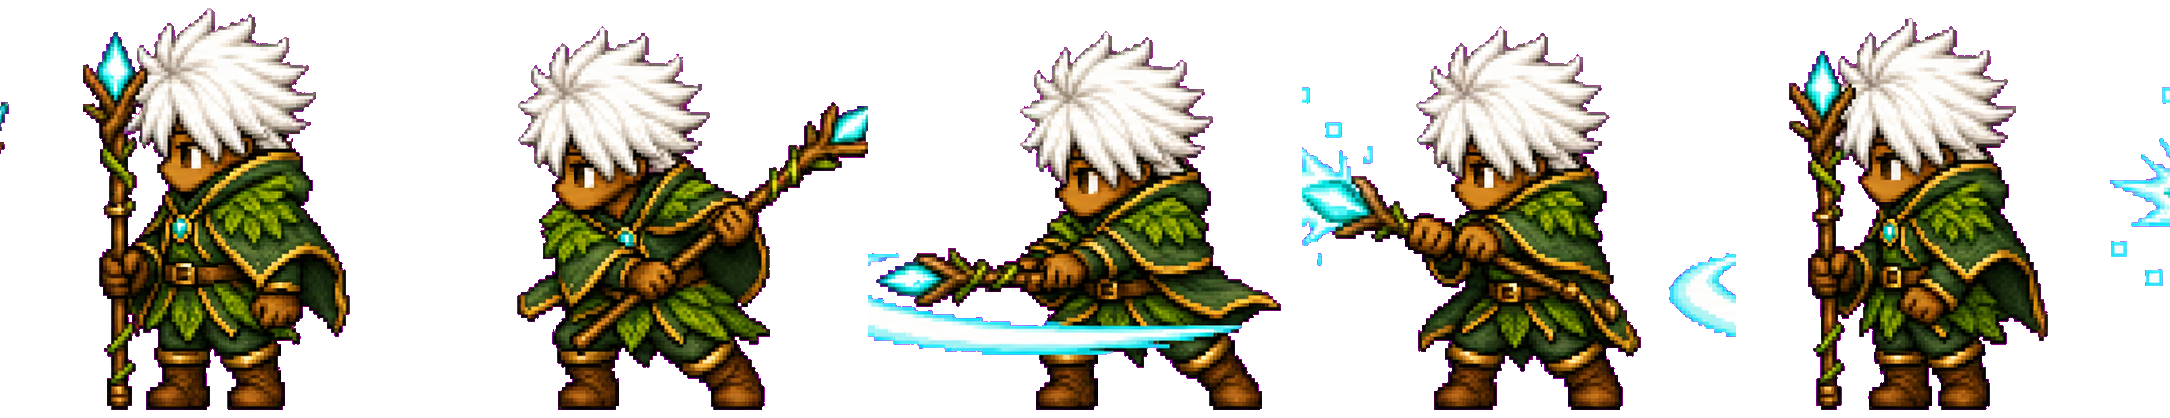
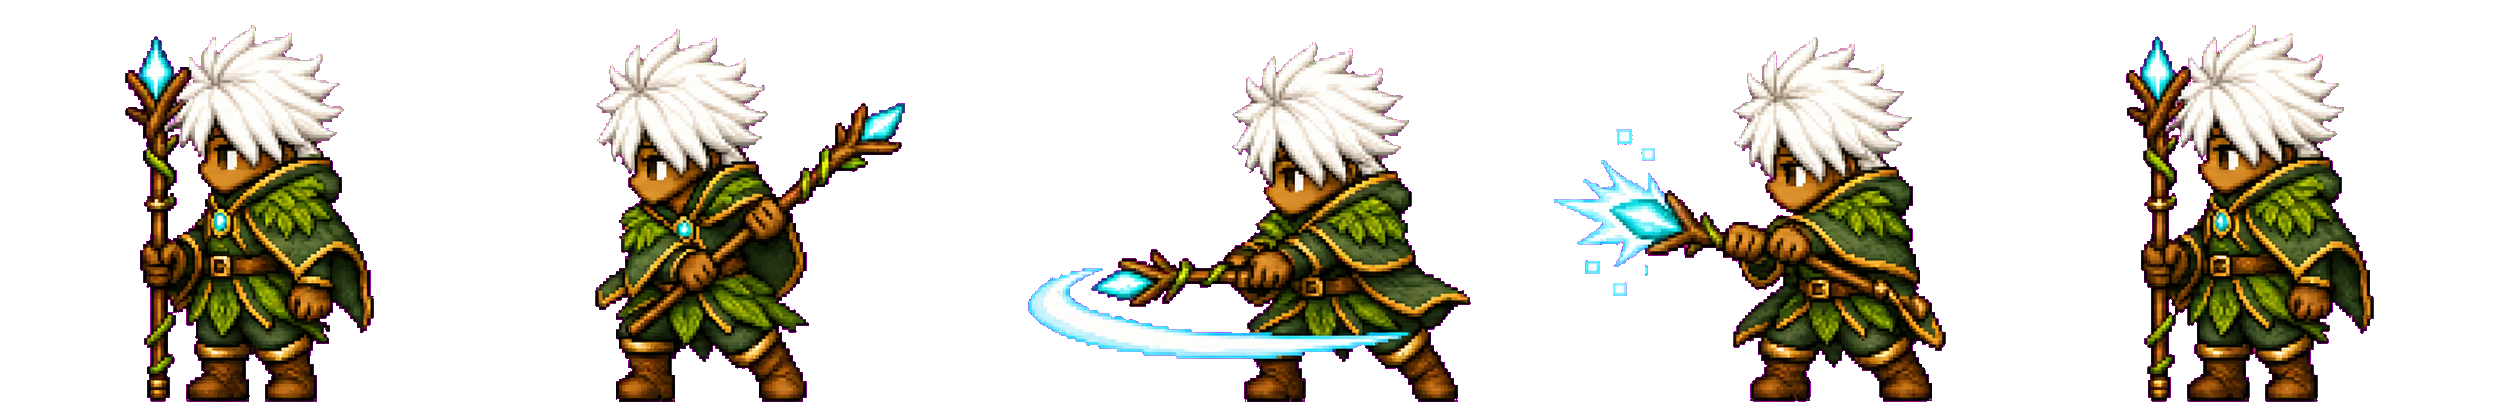
rp8

diff --git a/arborynth.html b/arborynth.html
@@ -6,30 +6,36 @@ body:before{content:"";position:fixed;inset:0;background:radial-gradient(circle 
 .device{position:fixed;inset:0;display:flex;align-items:center;justify-content:center;overflow:hidden;padding-top:4vh}.chassis{position:relative;width:min(100vw,calc(96vh * 768 / 1376));aspect-ratio:768/1376;overflow:hidden}
 .chassis:after{content:"";position:absolute;inset:0;z-index:3;pointer-events:none;background:url("assets/arboryth assets/arborynth controller.png") center/100% 100% no-repeat}
 .screen{position:absolute;left:7.5521%;top:6.1047%;width:85.026%;height:50.5814%;z-index:1;overflow:hidden;background:#07110d}
-#world{position:absolute;width:1600px;height:900px;left:0;top:0;will-change:transform}#world img{width:100%;height:100%;object-fit:cover;image-rendering:pixelated;pointer-events:none}
-#world:after{content:"";position:absolute;inset:0;background:radial-gradient(circle at 20% 30%,#a5f68f 0 1px,transparent 2px),radial-gradient(circle at 75% 60%,#7feac7 0 1px,transparent 2px);background-size:90px 75px,130px 105px;animation:drift 10s linear infinite;pointer-events:none}
+#world{position:absolute;width:1024px;height:1024px;left:0;top:0;will-change:transform}#world>.worldArt{position:absolute;inset:0;width:100%;height:100%;image-rendering:pixelated;pointer-events:none}
+#world:after{content:"";position:absolute;inset:0;z-index:1;background:radial-gradient(circle at 20% 30%,#a5f68f 0 1px,transparent 2px),radial-gradient(circle at 75% 60%,#7feac7 0 1px,transparent 2px);background-size:90px 75px,130px 105px;animation:drift 10s linear infinite;pointer-events:none}
+#groundStaff{position:absolute;z-index:2;left:606px;top:617px;width:28px;height:46px;object-fit:contain;image-rendering:pixelated;filter:drop-shadow(0 0 5px #79e7dc);pointer-events:none;animation:itemGlow 1.4s ease-in-out infinite}
 #player{position:absolute;z-index:4;left:50%;top:56%;width:38px;height:59px;object-fit:contain;transform:translate(-50%,-70%);image-rendering:pixelated;filter:drop-shadow(0 3px 2px #000a);pointer-events:none}
 #staffAttack{position:absolute;z-index:4;left:50%;top:56%;width:62px;height:59px;transform:translate(-50%,-70%);background:url("assets/arboryth assets/animation_arborynth_staff_attack.png") 0 center/500% 100% no-repeat;image-rendering:pixelated;filter:drop-shadow(0 3px 2px #000a);pointer-events:none;display:none}
 .hud{position:absolute;z-index:5;left:10.5%;right:10.5%;top:12.3%;display:flex;gap:7px;pointer-events:none}.power{flex:1;padding:7px 9px;background:#07110de8;border:1px solid #d1bb67;border-radius:4px;color:#eee3b0;font-size:9px;letter-spacing:.08em;box-shadow:0 3px 12px #0009}.power span{float:right;color:#c9e2d2}.meter{clear:both;height:5px;margin-top:5px;background:#101913}.meter i{display:block;height:100%;width:0}#vibeBar{background:#78db8f}#staffBar{background:#79deda}
 #location{position:absolute;z-index:5;left:50%;bottom:9px;transform:translateX(-50%);padding:5px 9px;background:#07110dc2;border:1px solid #8a7e4d;color:#e9d98e;font-size:8px;letter-spacing:.14em;white-space:nowrap;pointer-events:none}
+#prompt{position:absolute;z-index:6;left:50%;bottom:42px;transform:translateX(-50%);padding:6px 10px;background:#07110deb;border:1px solid #d7c066;color:#f1e2a0;font-size:8px;letter-spacing:.12em;white-space:nowrap;opacity:0;transition:opacity .15s;pointer-events:none}#prompt.show{opacity:1}
 #pulse{position:absolute;z-index:3;left:50%;top:54%;width:10px;height:10px;border:2px solid #77ead0;border-radius:50%;opacity:0;transform:translate(-50%,-50%)}#pulse.fire{animation:pulse .7s ease-out}
 .hot{position:absolute;z-index:4;border:0;outline:0;background:transparent;padding:0;touch-action:none;-webkit-tap-highlight-color:rgba(0,0,0,0);-webkit-appearance:none;appearance:none;cursor:pointer}.hot:focus,.hot:focus-visible{outline:0;box-shadow:none}.hot:active{background:#e8c8781f}
 .up{left:14.71%;top:58.43%;width:11.72%;height:6.69%}.down{left:14.71%;top:71.22%;width:11.98%;height:6.69%}.left{left:3.39%;top:64.24%;width:11.98%;height:7.85%}.right{left:26.17%;top:64.24%;width:11.98%;height:7.85%}
 .x{left:69.92%;top:60.25%;width:15.36%;height:8.65%;border-radius:50%}.y{left:53.52%;top:68.02%;width:13.67%;height:6.47%;border-radius:50%}.a{left:83.85%;top:68.02%;width:13.54%;height:7.12%;border-radius:50%}.b{left:68.36%;top:75.22%;width:13.54%;height:6.47%;border-radius:50%}.menu{left:38.41%;top:86.48%;width:22.14%;height:11.26%}.start{left:66.15%;top:93.39%;width:22.79%;height:4%}.select{left:11.07%;top:93.39%;width:22.79%;height:4%}
-#status{position:fixed;left:50%;bottom:8px;transform:translateX(-50%);color:#776c83;font-size:9px;letter-spacing:.18em;text-transform:uppercase}@keyframes drift{to{background-position:80px -75px,-90px -105px}}@keyframes pulse{0%{opacity:.9;width:10px;height:10px}100%{opacity:0;width:220px;height:220px}}
+#status{position:fixed;left:50%;bottom:8px;transform:translateX(-50%);color:#776c83;font-size:9px;letter-spacing:.18em;text-transform:uppercase}@keyframes drift{to{background-position:80px -75px,-90px -105px}}@keyframes pulse{0%{opacity:.9;width:10px;height:10px}100%{opacity:0;width:220px;height:220px}}@keyframes itemGlow{50%{filter:drop-shadow(0 0 10px #9af7e9);transform:translateY(-2px)}}
 </style></head><body>
 <a class="back" href="games.html">← GAMES</a><div class="device"><div class="chassis">
-<div class="screen"><div id="world"><img src="assets/arboryth assets/arborynth-godvine-world.png" alt=""></div><div id="pulse"></div><img id="player" src="assets/arboryth assets/character_arborynth.png" alt="Arborynth traveler"><div id="staffAttack" aria-hidden="true"></div><div id="location">FOREST OF THE GODVINE</div></div>
+<div class="screen"><div id="world"><canvas class="worldArt" id="tileMap" width="1024" height="1024"></canvas><img id="groundStaff" src="assets/arboryth assets/item_aura_staff_ground.png" alt=""></div><div id="pulse"></div><img id="player" src="assets/arboryth assets/character_arborynth.png" alt="Arborynth traveler"><div id="staffAttack" aria-hidden="true"></div><div id="prompt"></div><div id="location">FOREST OF THE GODVINE · 32 × 32</div></div>
 <div class="hud"><div class="power">VIBE <span id="vibeLv">LV 1</span><div class="meter"><i id="vibeBar"></i></div></div><div class="power">AURA STAFF <span id="staffLv">LV 1</span><div class="meter"><i id="staffBar"></i></div></div></div>
 <button class="hot up" data-key="ArrowUp" aria-label="Move up"></button><button class="hot down" data-key="ArrowDown" aria-label="Move down"></button><button class="hot left" data-key="ArrowLeft" aria-label="Move left"></button><button class="hot right" data-key="ArrowRight" aria-label="Move right"></button>
-<button class="hot x" data-action="staff" aria-label="Aura Staff"></button><button class="hot y" data-action="vibe" aria-label="Vibe"></button><button class="hot a" data-action="staff" aria-label="Aura Staff"></button><button class="hot b" data-action="attack" aria-label="Basic staff attack"></button><button class="hot menu" aria-label="Menu"></button><button class="hot start" data-action="staff" aria-label="Staff profile"></button><button class="hot select" data-action="vibe" aria-label="Vibe profile"></button>
+<button class="hot x" data-action="staff" aria-label="Aura Staff"></button><button class="hot y" data-action="vibe" aria-label="Vibe"></button><button class="hot a" data-action="interact" aria-label="Interact"></button><button class="hot b" data-action="attack" aria-label="Basic staff attack"></button><button class="hot menu" aria-label="Menu"></button><button class="hot start" data-action="staff" aria-label="Staff profile"></button><button class="hot select" data-action="vibe" aria-label="Vibe profile"></button>
 </div></div><div id="status">Prototype 08 · Arborynth · Forest of the Godvine</div>
 <script>
-(()=>{const world=document.querySelector('#world'),player=document.querySelector('#player'),staffAttack=document.querySelector('#staffAttack'),screen=document.querySelector('.screen'),keys={},bounds={w:1600,h:900};let cam={x:800,y:520},last=performance.now(),distance=0,step=0,attacking=false,facing='down';const attackSheets={down:'assets/arboryth assets/animation_arborynth_staff_attack.png',up:'assets/arboryth assets/animation_arborynth_staff_attack_up.png',left:'assets/arboryth assets/animation_arborynth_staff_attack_left.png',right:'assets/arboryth assets/animation_arborynth_staff_attack_right.png'};const progress=JSON.parse(localStorage.getItem('arborynthProgress')||'{"vibe":{"level":1,"xp":0},"staff":{"level":1,"xp":0}}');
+(()=>{const world=document.querySelector('#world'),tileMap=document.querySelector('#tileMap'),player=document.querySelector('#player'),groundStaff=document.querySelector('#groundStaff'),prompt=document.querySelector('#prompt'),staffAttack=document.querySelector('#staffAttack'),screen=document.querySelector('.screen'),keys={},bounds={w:1024,h:1024},staffPos={x:620,y:640};let cam={x:512,y:650},last=performance.now(),distance=0,step=0,attacking=false,facing='down',messageTimer;const attackSheets={down:'assets/arboryth assets/animation_arborynth_staff_attack.png',up:'assets/arboryth assets/animation_arborynth_staff_attack_up.png',left:'assets/arboryth assets/animation_arborynth_staff_attack_left.png',right:'assets/arboryth assets/animation_arborynth_staff_attack_right.png'};const progress=JSON.parse(localStorage.getItem('arborynthProgress')||'{"vibe":{"level":1,"xp":0},"staff":{"level":1,"xp":0}}');progress.hasStaff=!!progress.hasStaff;
+const floorTexture=new Image();floorTexture.src='assets/arboryth assets/tile_arborynth_floor.png';floorTexture.onload=()=>{const c=tileMap.getContext('2d');c.imageSmoothingEnabled=false;for(let ty=0;ty<32;ty++)for(let tx=0;tx<32;tx++){const sx=((tx*97+ty*53)%38)*32,sy=((tx*41+ty*89)%38)*32;c.drawImage(floorTexture,sx,sy,32,32,tx*32,ty*32,32,32)}};
 function render(){for(const t of ['vibe','staff']){const p=progress[t];document.querySelector(`#${t}Lv`).textContent=`LV ${p.level}`;document.querySelector(`#${t}Bar`).style.width=`${p.xp/(p.level*100)*100}%`}}function gain(t,n){const p=progress[t];p.xp+=n;while(p.xp>=p.level*100){p.xp-=p.level*100;p.level++}localStorage.setItem('arborynthProgress',JSON.stringify(progress));render()}
-function basicAttack(){if(attacking)return;attacking=true;player.style.visibility='hidden';staffAttack.style.backgroundImage=`url("${attackSheets[facing]}")`;staffAttack.style.display='block';let frame=0;staffAttack.style.backgroundPosition='0% center';const timer=setInterval(()=>{frame++;if(frame>=5){clearInterval(timer);staffAttack.style.display='none';player.style.visibility='visible';attacking=false;gain('staff',2);return}staffAttack.style.backgroundPosition=`${frame*25}% center`},85)}
-function action(type){if(type==='attack')return basicAttack();if(type==='staff'){const p=document.querySelector('#pulse');p.classList.remove('fire');void p.offsetWidth;p.classList.add('fire');player.animate([{filter:'brightness(1)'},{filter:'brightness(1.8) drop-shadow(0 0 8px #7de6de)'},{filter:'brightness(1)'}],{duration:500});gain('staff',4)}else{player.animate([{filter:'brightness(1)'},{filter:'brightness(1.6) drop-shadow(0 0 8px #8ef0b1)'},{filter:'brightness(1)'}],{duration:500});gain('vibe',3)}}
-document.querySelectorAll('[data-key]').forEach(el=>{const k=el.dataset.key;el.addEventListener('pointerdown',e=>{e.preventDefault();keys[k]=true;el.setPointerCapture?.(e.pointerId)});['pointerup','pointercancel','pointerleave'].forEach(n=>el.addEventListener(n,e=>{e.preventDefault();keys[k]=false}))});document.querySelectorAll('[data-action]').forEach(el=>el.addEventListener('pointerdown',e=>{e.preventDefault();action(el.dataset.action)}));addEventListener('keydown',e=>{keys[e.key]=true;if(e.key==='z'||e.key===' ')action('staff');if(e.key==='x')action('vibe');if(e.key==='Shift')action('attack')});addEventListener('keyup',e=>keys[e.key]=false);
+function showMessage(text){clearTimeout(messageTimer);prompt.textContent=text;prompt.classList.add('show');messageTimer=setTimeout(()=>{prompt.classList.remove('show');messageTimer=null},1500)}
+function equipStaff(){if(progress.hasStaff)return;progress.hasStaff=true;groundStaff.style.display='none';player.src='assets/arboryth assets/character_arborynth_staff.png';localStorage.setItem('arborynthProgress',JSON.stringify(progress));showMessage('AURA STAFF ACQUIRED · B ATTACK UNLOCKED')}
+function interact(){if(!progress.hasStaff&&Math.hypot(cam.x-staffPos.x,cam.y-staffPos.y)<72)equipStaff();else showMessage('NOTHING TO INTERACT WITH')}
+function basicAttack(){if(!progress.hasStaff)return showMessage('FIND THE AURA STAFF FIRST');if(attacking)return;attacking=true;player.style.visibility='hidden';staffAttack.style.backgroundImage=`url("${attackSheets[facing]}")`;staffAttack.style.display='block';let frame=0;staffAttack.style.backgroundPosition='0% center';const timer=setInterval(()=>{frame++;if(frame>=5){clearInterval(timer);staffAttack.style.display='none';player.style.visibility='visible';attacking=false;gain('staff',2);return}staffAttack.style.backgroundPosition=`${frame*25}% center`},85)}
+function action(type){if(type==='interact')return interact();if(type==='attack')return basicAttack();if(type==='staff'){if(!progress.hasStaff)return showMessage('AURA STAFF NOT YET ACQUIRED');const p=document.querySelector('#pulse');p.classList.remove('fire');void p.offsetWidth;p.classList.add('fire');player.animate([{filter:'brightness(1)'},{filter:'brightness(1.8) drop-shadow(0 0 8px #7de6de)'},{filter:'brightness(1)'}],{duration:500});gain('staff',4)}else{player.animate([{filter:'brightness(1)'},{filter:'brightness(1.6) drop-shadow(0 0 8px #8ef0b1)'},{filter:'brightness(1)'}],{duration:500});gain('vibe',3)}}
+document.querySelectorAll('[data-key]').forEach(el=>{const k=el.dataset.key;el.addEventListener('pointerdown',e=>{e.preventDefault();keys[k]=true;el.setPointerCapture?.(e.pointerId)});['pointerup','pointercancel','pointerleave'].forEach(n=>el.addEventListener(n,e=>{e.preventDefault();keys[k]=false}))});document.querySelectorAll('[data-action]').forEach(el=>el.addEventListener('pointerdown',e=>{e.preventDefault();action(el.dataset.action)}));addEventListener('keydown',e=>{keys[e.key]=true;if(e.key==='z'||e.key==='Enter')action('interact');if(e.key===' ')action('staff');if(e.key==='x')action('vibe');if(e.key==='Shift')action('attack')});addEventListener('keyup',e=>keys[e.key]=false);
 const controller=document.querySelector('.chassis');['dblclick','contextmenu','dragstart','selectstart'].forEach(type=>controller.addEventListener(type,e=>e.preventDefault()));controller.querySelectorAll('img').forEach(img=>img.draggable=false);
-function loop(now){const dt=Math.min(.04,(now-last)/1000);last=now;let dx=(keys.ArrowRight||keys.d?1:0)-(keys.ArrowLeft||keys.a?1:0),dy=(keys.ArrowDown||keys.s?1:0)-(keys.ArrowUp||keys.w?1:0);if(dx&&dy){dx*=.707;dy*=.707}const moving=dx||dy,s=screen;if(moving&&!attacking){if(Math.abs(dx)>Math.abs(dy))facing=dx<0?'left':'right';else facing=dy<0?'up':'down'}cam.x=Math.max(s.clientWidth/2,Math.min(bounds.w-s.clientWidth/2,cam.x+dx*135*dt));cam.y=Math.max(s.clientHeight/2,Math.min(bounds.h-s.clientHeight/2,cam.y+dy*135*dt));world.style.transform=`translate(${s.clientWidth/2-cam.x}px,${s.clientHeight/2-cam.y}px)`;if(moving){step+=dt*11;player.style.transform=`translate(-50%,calc(-70% + ${Math.sin(step)*1.5}px)) scaleX(${dx<0?-1:1})`;distance+=135*dt;if(distance>320){distance=0;gain('vibe',7)}}else player.style.transform='translate(-50%,-70%)';requestAnimationFrame(loop)}render();requestAnimationFrame(loop)})();
+function loop(now){const dt=Math.min(.04,(now-last)/1000);last=now;let dx=(keys.ArrowRight||keys.d?1:0)-(keys.ArrowLeft||keys.a?1:0),dy=(keys.ArrowDown||keys.s?1:0)-(keys.ArrowUp||keys.w?1:0);if(dx&&dy){dx*=.707;dy*=.707}const moving=dx||dy,s=screen;if(moving&&!attacking){if(Math.abs(dx)>Math.abs(dy))facing=dx<0?'left':'right';else facing=dy<0?'up':'down'}cam.x=Math.max(s.clientWidth/2,Math.min(bounds.w-s.clientWidth/2,cam.x+dx*135*dt));cam.y=Math.max(s.clientHeight/2,Math.min(bounds.h-s.clientHeight/2,cam.y+dy*135*dt));world.style.transform=`translate(${s.clientWidth/2-cam.x}px,${s.clientHeight/2-cam.y}px)`;if(!progress.hasStaff&&Math.hypot(cam.x-staffPos.x,cam.y-staffPos.y)<72&&!messageTimer){prompt.textContent='PRESS A · PICK UP AURA STAFF';prompt.classList.add('show')}else if(!messageTimer)prompt.classList.remove('show');if(moving){step+=dt*11;player.style.transform=`translate(-50%,calc(-70% + ${Math.sin(step)*1.5}px)) scaleX(${dx<0?-1:1})`;distance+=135*dt;if(distance>320){distance=0;gain('vibe',7)}}else player.style.transform='translate(-50%,-70%)';requestAnimationFrame(loop)}if(progress.hasStaff){groundStaff.style.display='none';player.src='assets/arboryth assets/character_arborynth_staff.png'}render();requestAnimationFrame(loop)})();
 </script></body></html>
